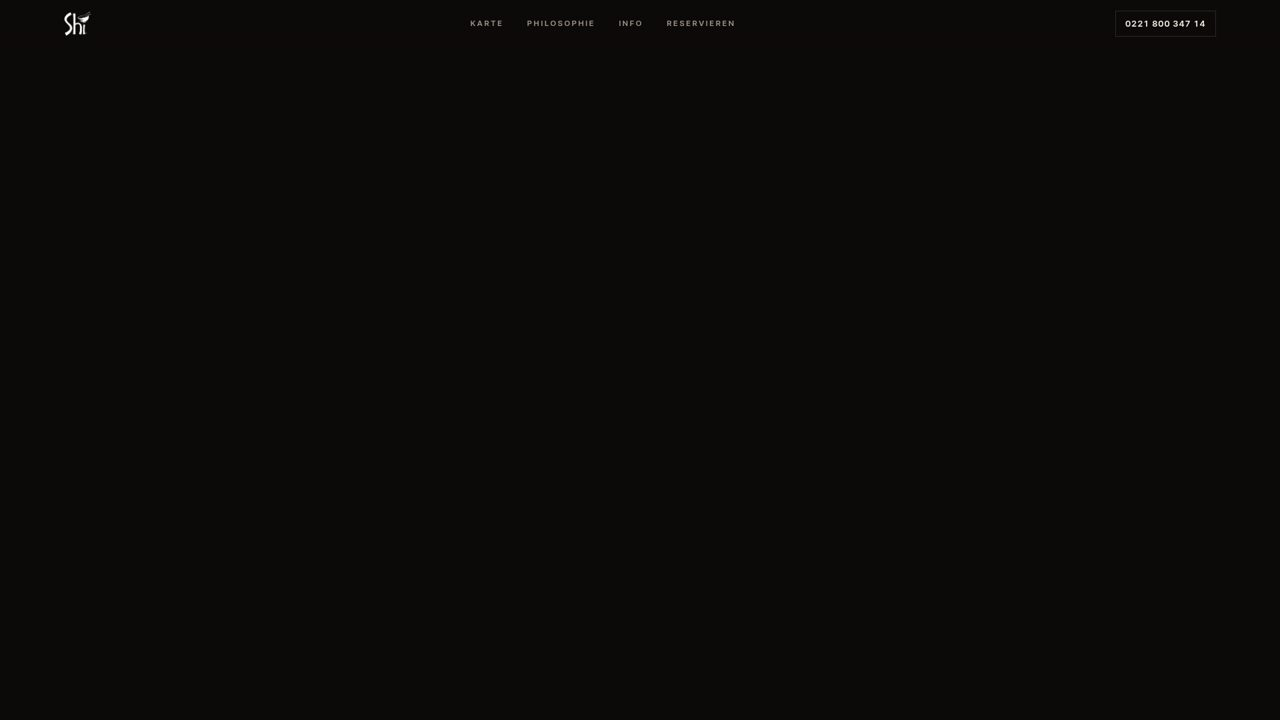
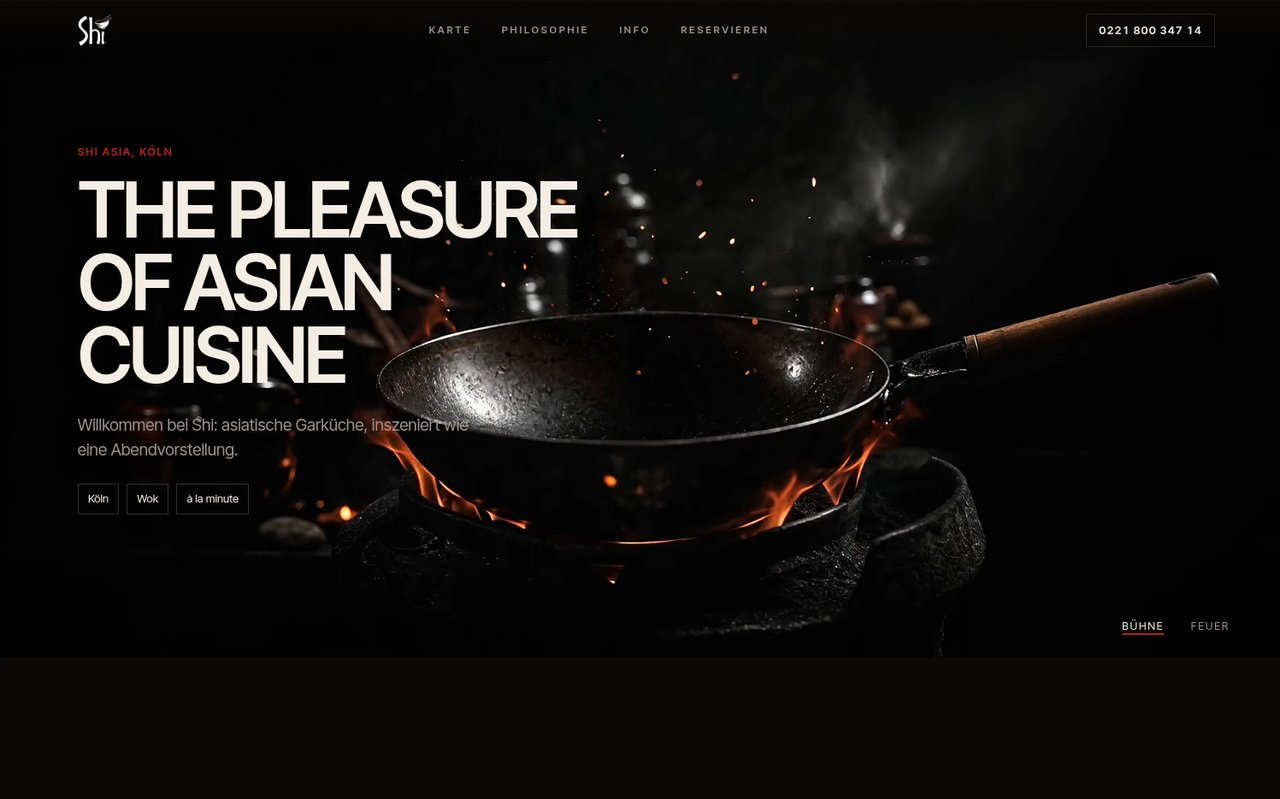
Countdown to top, deck scroll + preview fixes
- / countdown section moved to sit directly after the hero (release -> reels ->
  follow -> house -> manifesto -> numbers)
- website deck: track rebuilt as flexbox (reliable horizontal scroll + snap),
  cards snap to start, grab/arrow navigation kept; removed the desaturation
  filter that was crushing the dark site previews into black
- previews: use the brighter existing captures for the four original sites;
  Shi Asia preview re-captured in a live browser so its hero (wok on fire, logo,
  headline) actually renders instead of a black canvas

diff --git a/src/pages/Start.tsx b/src/pages/Start.tsx
@@ -68,40 +68,7 @@ export function Start() {
         ]}
       />
 
-      {/* ---- 1. the social clips, laid out fixed ---- */}
-      <div data-reveal>
-        <ReelBand
-          eyebrow={t("start.reels.eyebrow")}
-          title={t("start.reels.title")}
-          body={t("start.reels.body")}
-          layout="fixed"
-          reels={[REELS.radi, REELS.getReady1, REELS.getReady2, REELS.iykyk]}
-        />
-      </div>
-
-      {/* ---- 2. follow ---- */}
-      <section className="fpmc-band" id="follow">
-        <div className="fpmc-band-head" data-reveal>
-          <span className="fh-eyebrow">{t("start.follow.eyebrow")}</span>
-          <h2>{t("start.follow.title")}</h2>
-          <p className="fpmc-band-body">{t("start.follow.body")}</p>
-        </div>
-        <div className="fpmc-follow fpmc-follow--prominent" data-reveal>
-          {SOCIAL_ROW.map((s) => (
-            <a
-              key={s.key}
-              href={s.href}
-              target="_blank"
-              rel="noreferrer noopener"
-              className="fpmc-cta fpmc-cta--follow fpmc-cta--follow-solid"
-            >
-              {s.label} <span style={{ opacity: 0.7 }}>{s.handle}</span>
-            </a>
-          ))}
-        </div>
-      </section>
-
-      {/* ---- 3. the release: countdown + song details ---- */}
+      {/* ---- 1. the release: countdown + song details (right after the hero) ---- */}
       <section id="release" aria-labelledby="release-title">
         <div className="fpmc-release">
           <div data-reveal>
@@ -158,6 +125,39 @@ export function Start() {
               </div>
             ) : null}
           </div>
+        </div>
+      </section>
+
+      {/* ---- 2. the social clips, laid out fixed ---- */}
+      <div data-reveal>
+        <ReelBand
+          eyebrow={t("start.reels.eyebrow")}
+          title={t("start.reels.title")}
+          body={t("start.reels.body")}
+          layout="fixed"
+          reels={[REELS.radi, REELS.getReady1, REELS.getReady2, REELS.iykyk]}
+        />
+      </div>
+
+      {/* ---- 3. follow ---- */}
+      <section className="fpmc-band" id="follow">
+        <div className="fpmc-band-head" data-reveal>
+          <span className="fh-eyebrow">{t("start.follow.eyebrow")}</span>
+          <h2>{t("start.follow.title")}</h2>
+          <p className="fpmc-band-body">{t("start.follow.body")}</p>
+        </div>
+        <div className="fpmc-follow fpmc-follow--prominent" data-reveal>
+          {SOCIAL_ROW.map((s) => (
+            <a
+              key={s.key}
+              href={s.href}
+              target="_blank"
+              rel="noreferrer noopener"
+              className="fpmc-cta fpmc-cta--follow fpmc-cta--follow-solid"
+            >
+              {s.label} <span style={{ opacity: 0.7 }}>{s.handle}</span>
+            </a>
+          ))}
         </div>
       </section>
 

diff --git a/src/cinematic/pages.css b/src/cinematic/pages.css
@@ -401,11 +401,10 @@ html[dir="rtl"] .fpmc-manifest p {
 .fpmc-deck {
   display: grid;
   gap: 1.2rem;
+  min-width: 0;
 }
 .fpmc-deck-track {
-  display: grid;
-  grid-auto-flow: column;
-  grid-auto-columns: minmax(21rem, 26rem);
+  display: flex;
   gap: 1rem;
   overflow-x: auto;
   scroll-snap-type: x mandatory;
@@ -413,12 +412,14 @@ html[dir="rtl"] .fpmc-manifest p {
   scrollbar-width: thin;
   cursor: grab;
   -webkit-overflow-scrolling: touch;
+  max-width: 100%;
 }
 .fpmc-deck-track:active {
   cursor: grabbing;
 }
 .fpmc-deck-card {
-  scroll-snap-align: center;
+  scroll-snap-align: start;
+  flex: 0 0 min(26rem, 82vw);
   display: grid;
   gap: 0.9rem;
   background: var(--color-carbon);
@@ -442,11 +443,12 @@ html[dir="rtl"] .fpmc-manifest p {
   object-fit: cover;
   object-position: top center;
   display: block;
-  filter: saturate(0.15) contrast(1.05);
-  transition: filter 300ms ease, transform 600ms ease;
+  /* the sites are dark by design — show them as they are, no desaturation
+     that would crush them into black */
+  filter: none;
+  transition: transform 600ms ease;
 }
 .fpmc-deck-card:hover .fpmc-deck-shot img {
-  filter: saturate(1);
   transform: scale(1.02);
 }
 .fpmc-deck-meta {

diff --git a/src/config.ts b/src/config.ts
@@ -89,28 +89,28 @@ export const WEBSITES: Website[] = [
     kind: "Tattoo-Studio",
     city: "Bergisch Gladbach",
     href: "https://sacky-ink.higgsfield.app/",
-    preview: "/media/portfolio/sacky-ink.jpg",
+    preview: "/media/cinematic/portfolio/sacky.jpg",
   },
   {
     name: "Geuenich Immobilien",
     kind: "Immobilien",
     city: "Bergisch Gladbach",
     href: "https://geuenich-immobilien.higgsfield.app/",
-    preview: "/media/portfolio/geuenich.jpg",
+    preview: "/media/cinematic/portfolio/geuenich.jpg",
   },
   {
     name: "ChiRi",
     kind: "Restaurant",
     city: "Bergisch Gladbach",
     href: "https://chiri-cinema.higgsfield.app/",
-    preview: "/media/portfolio/chiri.jpg",
+    preview: "/media/cinematic/portfolio/chiri.jpg",
   },
   {
     name: "Lobby Shishalounge",
     kind: "Shisha-Lounge",
     city: "Köln-Mülheim",
     href: "https://lobby-shishalounge.higgsfield.app/",
-    preview: "/media/portfolio/lobby.jpg",
+    preview: "/media/cinematic/portfolio/lobby.jpg",
   },
 ] as const;
 
